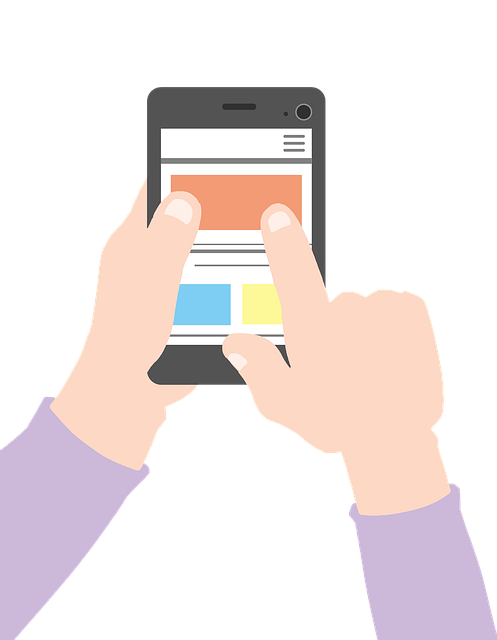
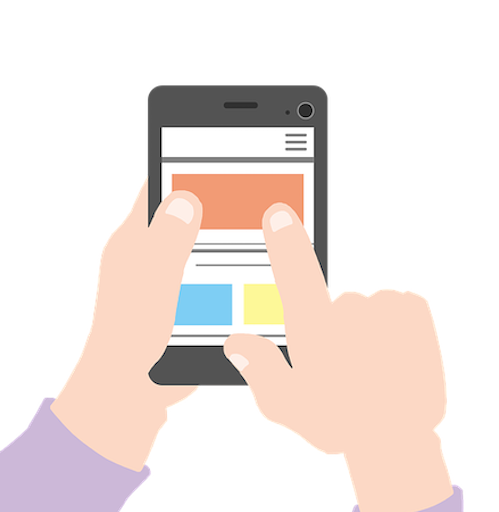
Adjusted images within the info section

diff --git a/css/index.css b/css/index.css
@@ -180,13 +180,6 @@ section#addToSlack .container button {
     padding-bottom: 52px; 
 }
 
-/*
-section#addToSlack .container img#ana {
-    margin-left: 700px ;
-    width: 580px;
-    height: 700px;
-} */
-
 /* Section Jobs */
 section#jobs .container {
     background-color:#F0F2F4 ;
@@ -229,29 +222,33 @@ section#info div#onboarding p {
     font-weight:300;
 }
 
-/*
+
 section#info div#onboarding {
     background-image: url('/images/smartphone-1184883_640.png');
     background-repeat: no-repeat;
-    background-position: right;
+    background-position: 70% 10%;
+    margin-top: 20px;
 }
 
 section#info div#pairing {
-    background-image: url('/images/coffee-4575116_640.png');
+    background-image: url('/images/donut-1873957_640.png');
     background-repeat: no-repeat;
-    background-position: left;
+    background-position: center;
+    
 }
-*/
+
 
 section#info .container {
    display:  flex ;
    flex-direction: row;
+   height: 600px ;
 }
 
 section#info .box-1, section#info .box-2 {
     width: 80%;
-    height: 100%;
+    height: 300px;
     margin-left: 10%;
+    margin-top: 40%;
     padding-bottom: 2.5%;
     padding-left: 2.5%;
     padding-right: 3.0%;
